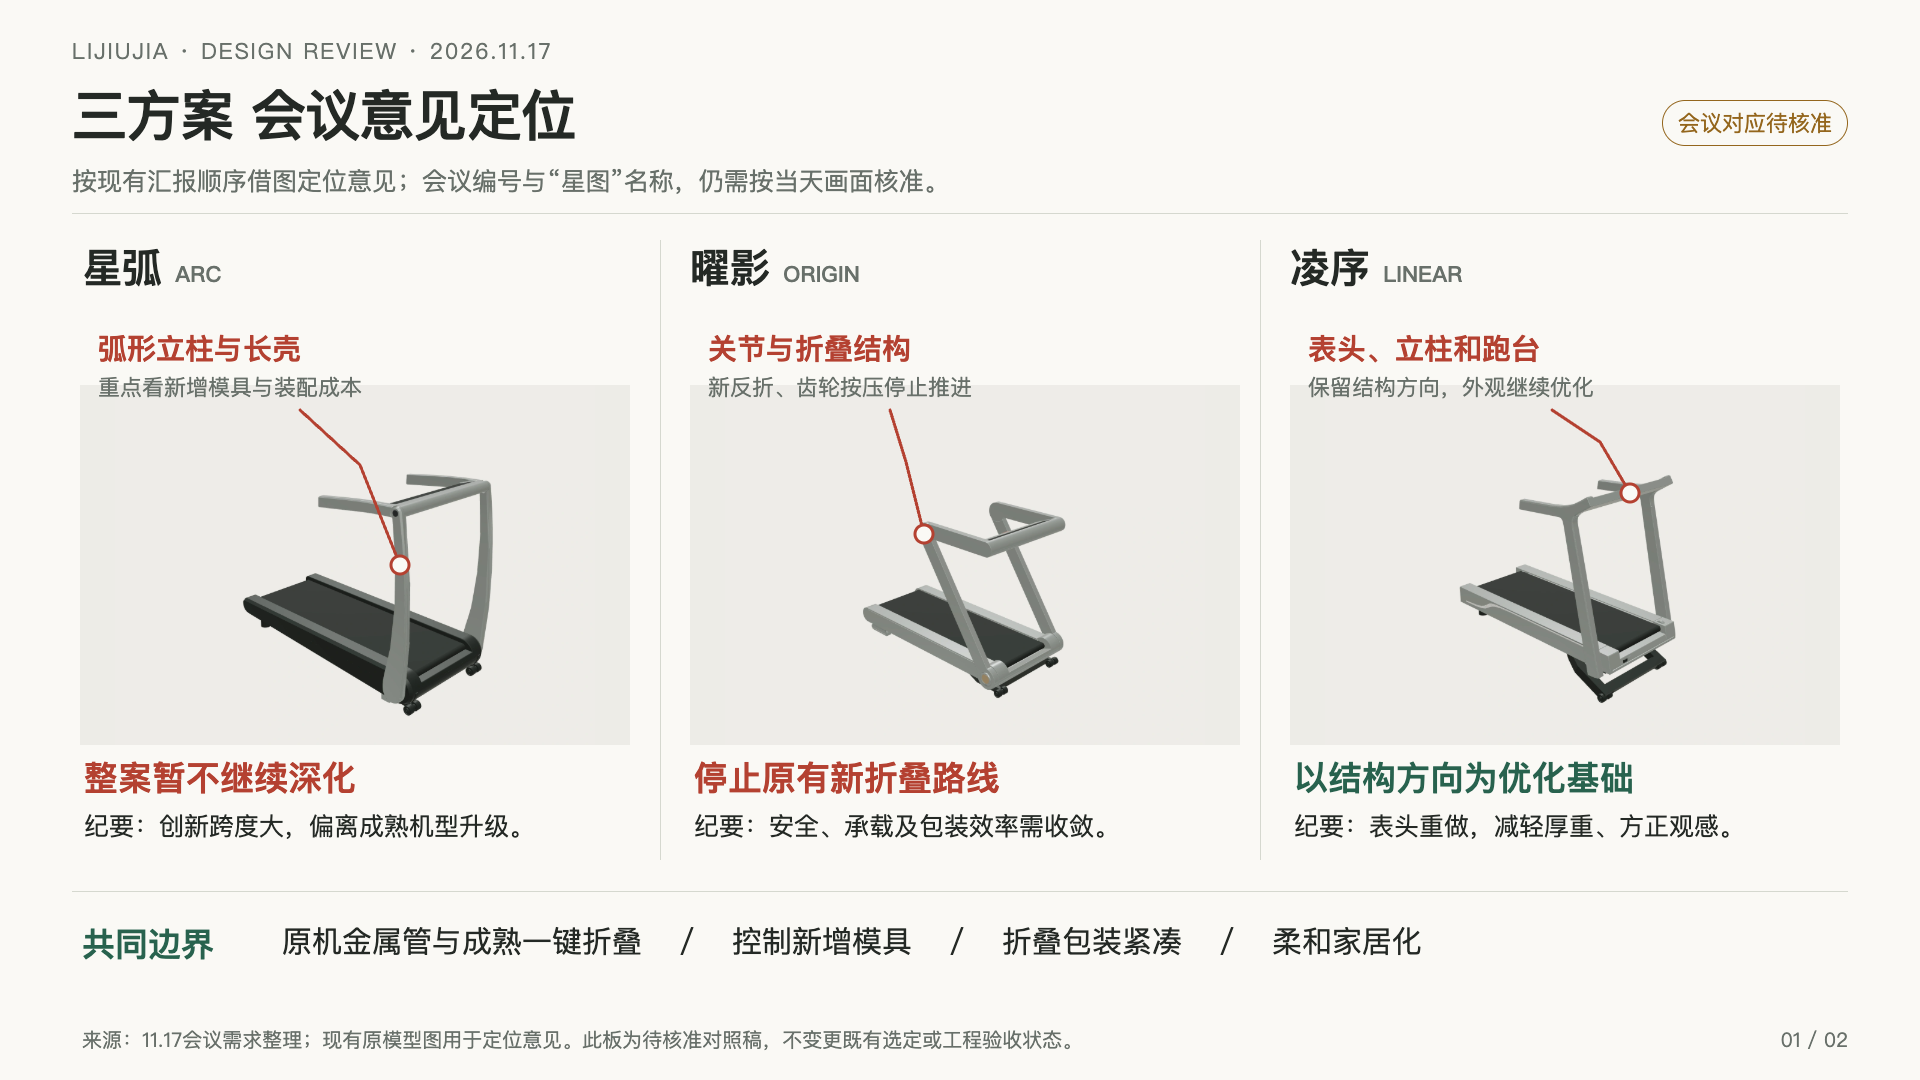
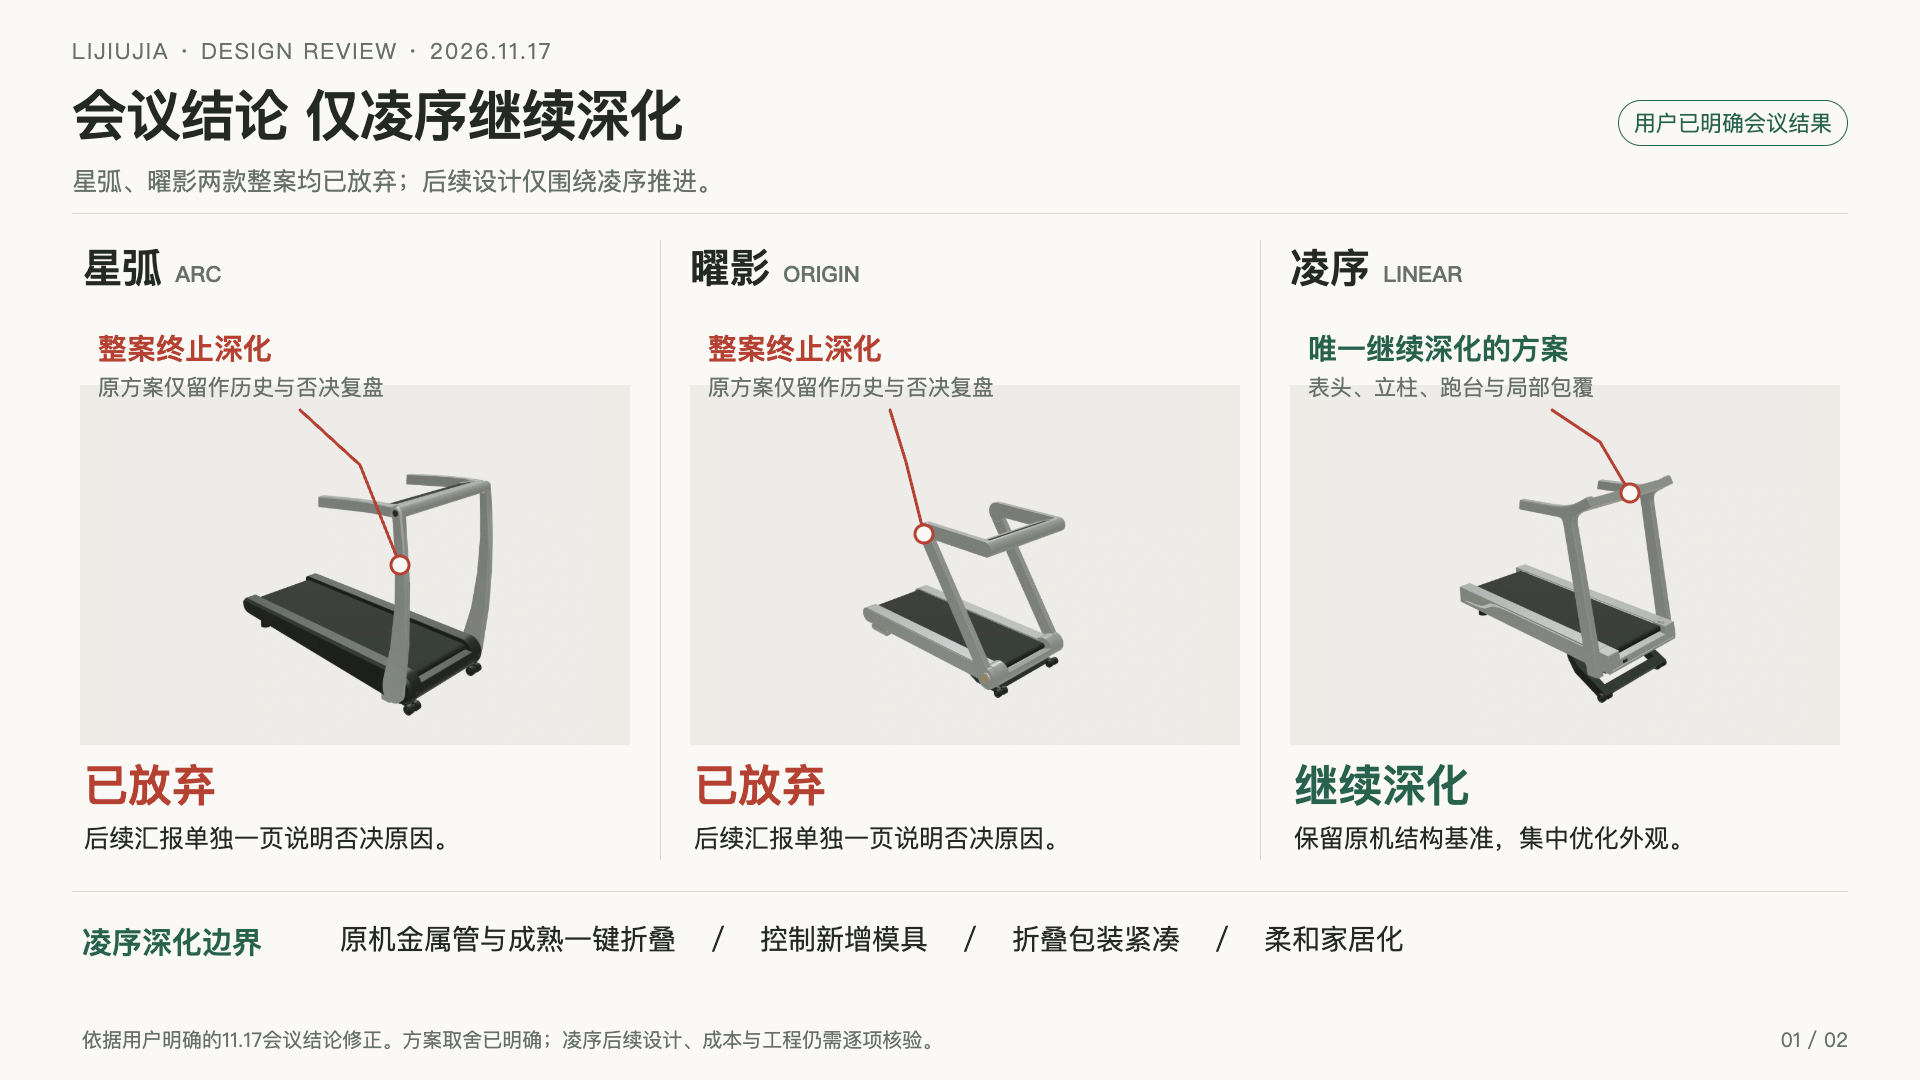
Correct meeting decision: only Linear continues; Origin and Xinghu abandoned

diff --git a/iterations/meeting-annotations-20261117/index.html b/iterations/meeting-annotations-20261117/index.html
@@ -12,12 +12,12 @@
 </style>
 </head>
 <body>
-<nav><strong>11.17 会议图示标注</strong><a href="#directions">三方案意见定位</a><a href="#changes">具体修改位置</a><a href="01-directions.png" target="_blank">第一张大图</a><a href="02-linear-changes.png" target="_blank">第二张大图</a><span>点击产品图可查看完整原图</span></nav>
-<div class="wrap" id="directions"><section class="board" aria-label="三方案会议意见定位标注板">
+<nav><strong>11.17 会议图示标注</strong><a href="#directions">会议方案取舍</a><a href="#changes">凌序深化位置</a><a href="01-directions.png?rev=linear-only" target="_blank">第一张大图</a><a href="02-linear-changes.png?rev=linear-only" target="_blank">第二张大图</a><span>点击产品图可查看完整原图</span></nav>
+<div class="wrap" id="directions"><section class="board" aria-label="会议结论仅凌序继续深化，星弧与曜影已放弃">
   <p class="at eyebrow" style="left:72px;top:36px">LIJIUJIA · DESIGN REVIEW · 2026.11.17</p>
-  <h1 class="at" style="left:72px;top:83px">三方案 会议意见定位</h1>
-  <p class="at sub" style="left:72px;top:163px">按现有汇报顺序借图定位意见；会议编号与“星图”名称，仍需按当天画面核准。</p>
-  <span class="at pill amber" style="right:72px;top:100px">会议对应待核准</span>
+  <h1 class="at" style="left:72px;top:83px">会议结论 仅凌序继续深化</h1>
+  <p class="at sub" style="left:72px;top:163px">星弧、曜影两款整案均已放弃；后续设计仅围绕凌序推进。</p>
+  <span class="at pill green" style="right:72px;top:100px">用户已明确会议结果</span>
   <div class="at rule" style="left:72px;top:213px;width:1776px"></div>
   <div class="at vrule" style="left:660px;top:240px;height:620px"></div>
   <div class="at vrule" style="left:1260px;top:240px;height:620px"></div>
@@ -27,31 +27,31 @@
   <button class="at source artbg" style="left:80px;top:385px;width:550px;height:360px" aria-label="查看星弧当前长扶手原模型图"><img data-local="../xinghu-long-grip-20261115/xinghu-source-45.webp" data-public="../xinghu-long-grip-20261115/xinghu-source-45.webp" alt="星弧长扶手当前STEP整机图，完整保留"></button>
   <button class="at source artbg" style="left:690px;top:385px;width:550px;height:360px" aria-label="查看曜影当前原模型图"><img data-local="../origin-native-20261115/origin-source-45.webp" data-public="../origin-native-20261115/origin-source-45.webp" alt="曜影当前STEP整机图，完整保留"></button>
   <button class="at source artbg" style="left:1290px;top:385px;width:550px;height:360px" aria-label="查看凌序当前原模型图"><img data-local="../linear-native-20261115/linear-source-45.webp" data-public="../linear-native-20261115/linear-source-45.webp" alt="凌序当前STEP整机图，完整保留"></button>
-  <p class="at label red" style="left:98px;top:329px">弧形立柱与长壳</p>
-  <p class="at small" style="left:98px;top:371px">重点看新增模具与装配成本</p>
-  <p class="at label red" style="left:708px;top:329px">关节与折叠结构</p>
-  <p class="at small" style="left:708px;top:371px">新反折、齿轮按压停止推进</p>
-  <p class="at label red" style="left:1308px;top:329px">表头、立柱和跑台</p>
-  <p class="at small" style="left:1308px;top:371px">保留结构方向，外观继续优化</p>
+  <p class="at label red" style="left:98px;top:329px">整案终止深化</p>
+  <p class="at small" style="left:98px;top:371px">原方案仅留作历史与否决复盘</p>
+  <p class="at label red" style="left:708px;top:329px">整案终止深化</p>
+  <p class="at small" style="left:708px;top:371px">原方案仅留作历史与否决复盘</p>
+  <p class="at label green" style="left:1308px;top:329px">唯一继续深化的方案</p>
+  <p class="at small" style="left:1308px;top:371px">表头、立柱、跑台与局部包覆</p>
   <svg class="overlay" viewBox="0 0 1920 1080" aria-hidden="true">
     <g stroke="#b44131"><path d="M 300 410 L 360 465 L 400 565"/><circle cx="400" cy="565" r="9"/><path d="M 890 410 L 906 462 L 924 534"/><circle cx="924" cy="534" r="9"/><path d="M 1552 410 L 1600 442 L 1630 493"/><circle cx="1630" cy="493" r="9"/></g>
   </svg>
-  <p class="at label red" style="left:84px;top:756px;font-size:34px">整案暂不继续深化</p>
-  <p class="at body" style="left:84px;top:807px;width:540px">纪要：创新跨度大，偏离成熟机型升级。</p>
-  <p class="at label red" style="left:694px;top:756px;font-size:34px">停止原有新折叠路线</p>
-  <p class="at body" style="left:694px;top:807px;width:540px">纪要：安全、承载及包装效率需收敛。</p>
-  <p class="at label green" style="left:1294px;top:756px;font-size:34px">以结构方向为优化基础</p>
-  <p class="at body" style="left:1294px;top:807px;width:540px">纪要：表头重做，减轻厚重、方正观感。</p>
+  <p class="at label red" style="left:84px;top:756px;font-size:44px">已放弃</p>
+  <p class="at body" style="left:84px;top:819px;width:540px">后续汇报单独一页说明否决原因。</p>
+  <p class="at label red" style="left:694px;top:756px;font-size:44px">已放弃</p>
+  <p class="at body" style="left:694px;top:819px;width:540px">后续汇报单独一页说明否决原因。</p>
+  <p class="at label green" style="left:1294px;top:756px;font-size:44px">继续深化</p>
+  <p class="at body" style="left:1294px;top:819px;width:540px">保留原机结构基准，集中优化外观。</p>
   <div class="at rule" style="left:72px;top:891px;width:1776px"></div>
-  <p class="at label green" style="left:82px;top:922px;font-size:33px">共同边界</p>
-  <p class="at body" style="left:282px;top:918px;font-size:30px">原机金属管与成熟一键折叠　／　控制新增模具　／　折叠包装紧凑　／　柔和家居化</p>
-  <p class="at footer" style="left:82px;top:1026px">来源：11.17会议需求整理；现有原模型图用于定位意见。此板为待核准对照稿，不变更既有选定或工程验收状态。</p>
+  <p class="at label green" style="left:82px;top:922px;font-size:30px">凌序深化边界</p>
+  <p class="at body" style="left:340px;top:918px;font-size:28px">原机金属管与成熟一键折叠　／　控制新增模具　／　折叠包装紧凑　／　柔和家居化</p>
+  <p class="at footer" style="left:82px;top:1026px">依据用户明确的11.17会议结论修正。方案取舍已明确；凌序后续设计、成本与工程仍需逐项核验。</p>
   <p class="at footer" style="right:72px;top:1026px">01 / 02</p>
 </section></div>
 <div class="wrap" id="changes"><section class="board" aria-label="凌序具体修改位置与保留事项标注板">
   <p class="at eyebrow" style="left:72px;top:36px">LIJIUJIA · CHANGE LOCATIONS · 2026.11.17</p>
-  <h1 class="at" style="left:72px;top:83px">凌序 具体修改位置</h1>
-  <p class="at sub" style="left:72px;top:163px">暂借现有凌序对照纪要“方案三”；结构以甲方正式原机3D为准。红色为修改，绿色为保留，赭色为待确认。</p>
+  <h1 class="at" style="left:72px;top:83px">凌序 唯一继续深化方案</h1>
+  <p class="at sub" style="left:72px;top:163px">结构以甲方正式原机3D为准。红色为修改，绿色为保留，赭色为待确认。</p>
   <div class="at rule" style="left:72px;top:213px;width:1776px"></div>
   <button class="at source artbg" style="left:72px;top:242px;width:970px;height:727.5px" aria-label="查看凌序完整原模型侧视图"><img data-local="../linear-native-20261115/linear-source-side.webp" data-public="../linear-native-20261115/linear-source-side.webp" alt="凌序当前模型完整侧视，用于标明表头、立柱、跑台修改位置"></button>
   <p class="at label red" style="left:96px;top:263px">01　表头与扶手减薄、圆润</p>
